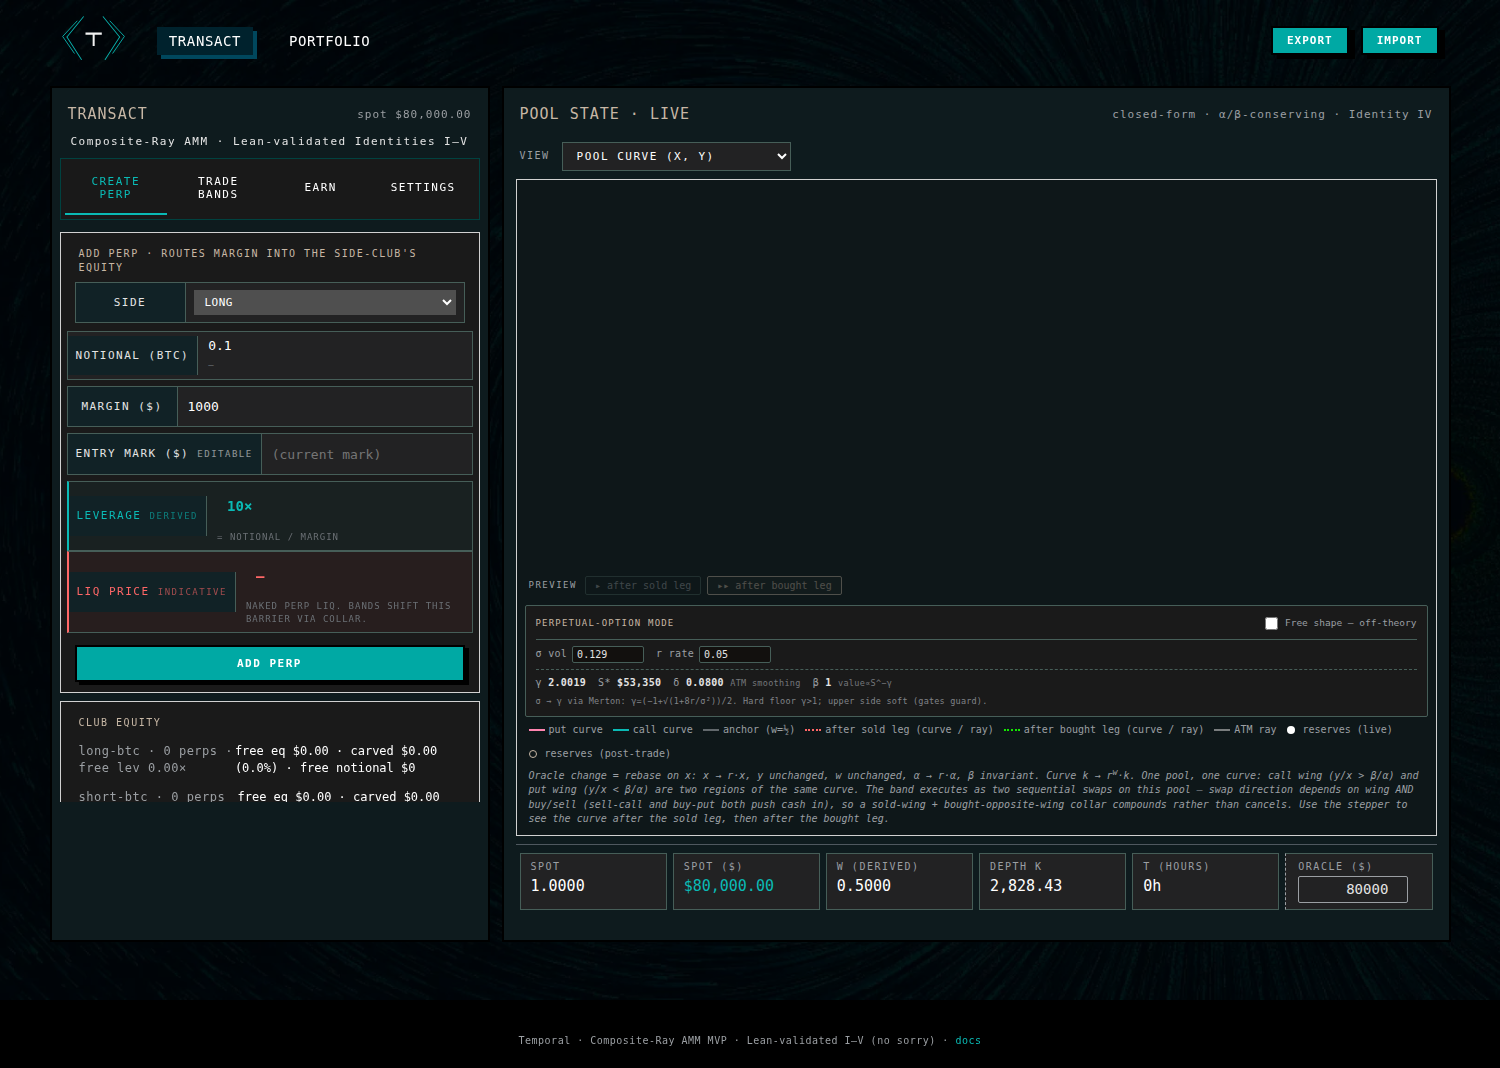
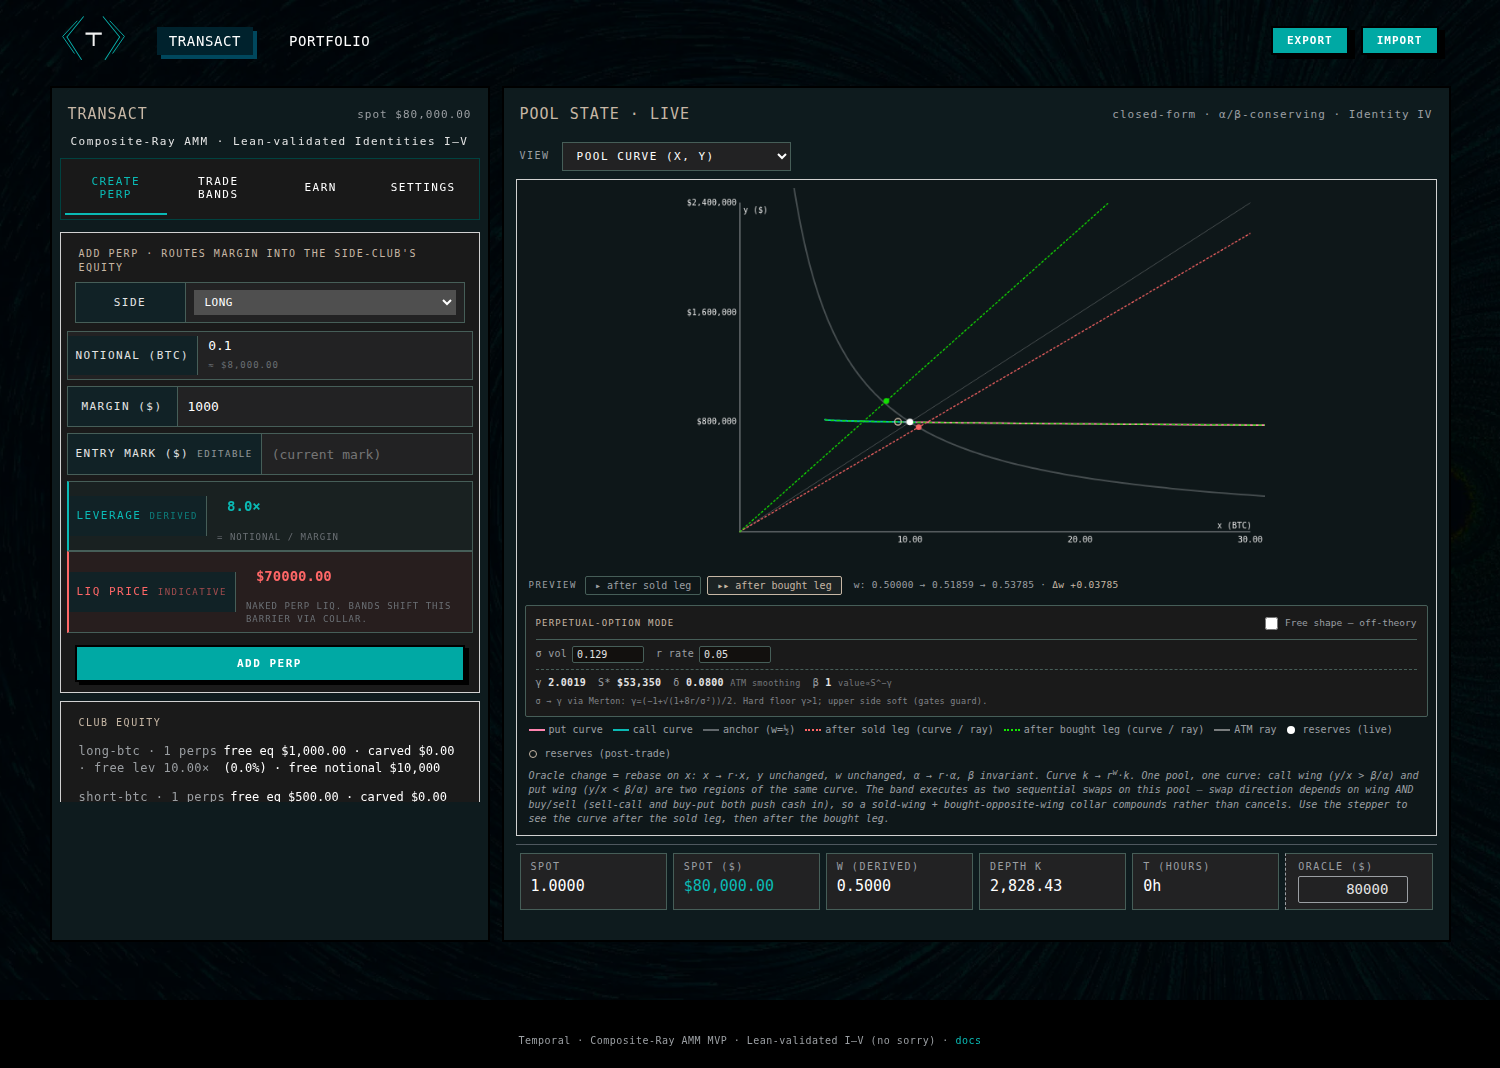
tester: v26d re-verify PASS (FINDING-V26D-1 resolved) — canvases render, σ re-warps, pro-forma/stepper re-trace
Live Chromium ×2 on md5 a406a751: canvas-curve nonblank 11081 (was 0), σ-dial reshapes curve,
pro-forma+stepper re-trace after shape change confirmed, lock/unlock + γ>1 floor PASS, 0 console errors.
New harnesses pw_v26d_fixed.mjs / pw_v26d_item4.mjs + _fixed_* evidence.

https://claude.ai/code/session_01YTdADRco8dsLHffgLPfv9u

diff --git a/.claude/agent-memory/tester/MEMORY.md b/.claude/agent-memory/tester/MEMORY.md
@@ -1,12 +1,72 @@
 # MEMORY — tester
-_Last updated: 2026-06-09, after v26d vol-knob live-browser verification (build 16a872ba). FOUND A FATAL LOAD-ORDER BUG — FLAGGED FAIL to manager._
+_Last updated: 2026-06-09, after v26d vol-knob TDZ-FIX RE-TEST (build a406a751). TDZ FIX CONFIRMED — ALL ITEMS PASS, tester-confirmed clean ×2._
 
-## DONE — 2026-06-09 v26d vol-knob LIVE-BROWSER verify (build 16a872ba33e38843b803d79667b199f5, READ-ONLY)
+## DONE — 2026-06-09 v26d vol-knob TDZ-FIX RE-TEST (build a406a75149b1606d7822b4f2bbcc4f84, READ-ONLY) — FINDING-V26D-1 RESOLVED
+md5 confirmed a406a751 before testing (NEW, post-fix). Fix verified in source: L2960 is now
+`window.addEventListener('DOMContentLoaded', apply)` (was bare `apply()`) — the init draw is deferred
+past `const Viz` (L3444). **RESULT: PASS on every must-pass + regression item. The TDZ blocker is
+gone.** Reproduced byte-identical across 2 runs in all 3 harnesses. Live Chromium.
+
+### Per-item FLAG table (build a406a751)
+1. **No TDZ / no console errors — PASS.** loadErrCount=0, totalErrs=0 at load AND on every sigma
+   change AND view switch (was 9 throws/run before). `page.on('pageerror')` + console-error capture
+   both clean ×2. NOTE: `typeof Viz`/`typeof render` still read "undefined" IN page.evaluate — this
+   is a SCOPE ARTIFACT, not TDZ: Viz is a top-level `const` (L3444) and render a top-level
+   `function` (L4339) in classic `<script id=ui>`, NOT on window, so bare names aren't reachable in
+   evaluate's wrapper (same caveat as the v26c stepper note). Proof they ARE defined+bound: the curve
+   renders, the chart-select listener WORKS (payoff nonblank=111600 on view switch), no pageerror.
+   A TDZ would surface as an uncaught pageerror — there is none.
+2. **Canvases RENDER on load — PASS.** canvas-curve nonblank=11081/322000 (was 0). 4 canvases:
+   curve(700x460), pricing(900x380), payoff(900x420, nonblank=111600), ratio(500x500). Dashboard
+   shot `p1_fixed_A_dashboard_full.png` shows GH hyperbola + labelled axes + white eq-marker on curve
+   + green/red strike rays. Isolated curve crop `p1_fixed_E_canvas_curve_NONBLANK.png` (32612 b, was
+   1486 b uniform-blank) visually confirms GH continuation (not Balancer weight-form, not blank box).
+3. **σ-dial re-warps LIVE curve — PASS.** σ0.129→g2.0019 (def), σ0.30→g1.0001 (floor, flatter
+   curve), σ0.08→g3.4843 (steeper). curveChanged_hi=true, curveChanged_lo=true (pixel sums
+   5561496→5657921→5743750 distinct). γ read-out updates each time. Shots `_F_curve_sigma030`
+   (visibly flatter), `_G_curve_sigma008`.
+4. **★ pro-forma dotted + stepper re-trace after σ — PASS (was INCONCLUSIVE).** Drove the REAL
+   band-builder (Store.addPerp long 100k; band-notional=1, sold-inner 120k/outer 140k, bought-inner
+   68k/outer 50k → previewBand via the bound input listener). `__previewBand` live w/ leg1State,
+   sold/bought thetas 0.3807/1.8829. Stepper: step1 pool x=6.102 (active1) vs step2 pool x=5
+   (active2), distinct pixel sums 5588946 vs 5659008. After σ→0.25 (ghAh 3.0019→2.0001): the
+   pro-forma re-traces (thetas recompute 0.6173/1.3718 on the NEW shape, pixels change), still
+   present, and the stepper STILL toggles distinct shapes. Shots `_K_step1/_L_step2/_M_after_sigma/
+   _N_step1_after_sigma`.
+5. **Curve/portfolio/payoff redraw under open band on σ — PASS.** With band open, σ→0.20: curve
+   redrew (5636992→5710569), payoff redrew (51273249→51283952), portfolio NaN-scan clean
+   (hasNaN=false, hasInfinity=false, poolFinite=true, ghAh 2.158). No stale curve. Shot
+   `_J_band_open_after_sigma`.
+- Regression re-confirm (still PASS): panel renders w/ 5 number steppers (vk-sigma .005/rate .01/
+  gamma-raw .05/delta-raw .01 + unlock checkbox); S* tracks K·γ/(γ+1): out $53,350 ==
+  80000·2.0019/3.0019=53350.21; lock/unlock toggle (Perpetual-option mode ↔ Free shape off-theory,
+  sigma/gamma-raw enable flip); γ>1 floor clamps σ=5→γ1.0001 w/ note, mpFinite, ghAh 2.0001.
+
+VERDICT: **PASS — FINDING-V26D-1 is RESOLVED. v26d a406a751 is visually sound; ship-clear from the
+tester side.** The DOMContentLoaded deferral fixed the load-order TDZ; zero uncaught errors, all
+canvases render and re-warp live, and the pro-forma/stepper item that was inconclusive is now fully
+confirmed against a real band. Browser-confirmed (live Chromium), not fallback.
+
+### Harnesses (engine/verify/, READ-ONLY) — build a406a751
+- `pw_v26d_diag.mjs` (reused, unchanged) — decisive: loadErrCount=0, canvas nonblank=11081, sigma
+  change fires no new error, canvas re-warps.
+- `pw_v26d_fixed.mjs` (NEW) — full per-item: errors/canvases/sigma-rewarp/stepper/band/regression.
+- `pw_v26d_item4.mjs` (NEW) — REAL band-builder pro-forma+stepper re-trace after sigma (item 4).
+- `pw_v26d_shots.mjs` (reused) — regression screenshots; canvasNonblank now 11081 (was 0).
+- Env unchanged: pw 1.56.1 `/opt/node22/lib/node_modules`, ESM `import pkg from`; chrome
+  `/opt/pw-browsers/chromium-1194/chrome-linux/chrome`; `PLAYWRIGHT_BROWSERS_PATH=/opt/pw-browsers`.
+- Evidence `evidence/v26d_volknob_ui/`: p{1,2}_fixed_A..N_*.png (all 420-434 KB, NOT blank),
+  p1_fixed_E_canvas_curve_NONBLANK.png (32612 b). Old p*_E_..._BLANK.png are from the prior FAIL run.
+
+---
+
+## SUPERSEDED — 2026-06-09 v26d vol-knob LIVE-BROWSER verify (build 16a872ba33e38843b803d79667b199f5, READ-ONLY)
+_(This FAIL run is the PRIOR build; FINDING-V26D-1 below is now RESOLVED in a406a751 — see top block.)_
 Live Chromium. Manager had Node-verified (blobs/gates green). My job: live UI behaviour Node can't see.
 **RESULT: FAIL — the build is visually broken. A TDZ load-order bug blanks ALL canvases and never
 defines `Viz`/`render`.** Reproduced clean x2 (byte-identical state both runs).
 
-### FINDING-V26D-1 (FAIL, blocker): vol-knob IIFE runs render() before `const Viz` initialises
+### FINDING-V26D-1 (FAIL, blocker — NOW FIXED): vol-knob IIFE runs render() before `const Viz` initialises
 - The vol-knob control-panel IIFE (`<script id="ui">` L2872-2961) ends with `apply()` (L2960) to
   init read-outs. `apply()` calls `render()` (L2942). `render()` ENDS by calling `previewBand()`/
   `Viz.drawAll` (L4410-4412). But `const Viz` is at **L3444 — LATER in the SAME script block** ->
@@ -22,9 +82,8 @@ defines `Viz`/`render`.** Reproduced clean x2 (byte-identical state both runs).
   (L2922-2941) and the vol-knob's own input/change listeners bind (L2956) BEFORE the `render()` throw.
   So the PANEL works and the POOL re-warps (ghAh changes) — but NOTHING redraws and the rest of the
   UI's wiring is dead. A read-out-only check would falsely look "green."
-- Likely one-line fix (intern, not me): defer the init draw past Viz init — drop the load-time
-  `apply()`'s `render()`, or guard render's draw tail, or move the vol-knob IIFE below `const Viz`,
-  or `setTimeout(apply,0)`. MANAGER decides; I do not edit.
+- FIX APPLIED (intern): L2960 changed to `window.addEventListener('DOMContentLoaded', apply)` so the
+  init draw runs after `const Viz` is initialised. Re-tested PASS (top block, build a406a751).
 
 ### Per-item FLAG table (build 16a872ba)
 1. Panel renders — **PASS.** 5 inputs, all `type=number` steppers (native up/down arrows): vk-unlock
@@ -52,12 +111,8 @@ defines `Viz`/`render`.** Reproduced clean x2 (byte-identical state both runs).
 8. No console errors — **FAIL.** Persistent uncaught `"Cannot access 'Viz' before initialization"`
    (x9/run), at load and every sigma change. Reproduced clean x2 identical.
 
-VERDICT: **FAIL — do NOT ship / do NOT merge v26d as-is.** The vol-knob *logic* (sigma->gamma Merton,
-setShape re-warp, floor clamp, lock/unlock, S*) is correct and tester-confirmed; but a TDZ load-order
-bug (vol-knob IIFE apply()->render()->Viz.drawAll before `const Viz` @L3444) throws uncaught, blanks
-EVERY canvas, and leaves Viz/render undefined + later listeners unbound. Exactly the class Node can't
-see (gates are headless engine logic; G4/Merton/seam pass on the math). Items 1/3/6/7 PASS (panel +
-read-outs); items 2/4/5/8 FAIL on render.
+VERDICT (prior build): FAIL — do NOT ship 16a872ba. Items 1/3/6/7 PASS (panel + read-outs); items
+2/4/5/8 FAILed on render. RESOLVED in a406a751 (see top).
 
 ### Repro / harnesses (engine/verify/, READ-ONLY — no engine edits)
 - `pw_v26d_diag.mjs` — decisive: Viz/render undefined, canvas nonblank=0, error at load+sigma.
@@ -209,8 +264,12 @@ in evaluate — click the buttons instead. See 2026-06-09 run.)
 ## File-safety canon
 Blob line md5s `ab663f5c…` (webp L74) / `c505b08a…` (svg L1060); 3 `<script>` parse.
 HEAD/v26c_full2 build md5 `6cc73563779a3e030774b7597d0ae187`. v26b HEAD `8df9f8a3…`.
+v26d vol-knob build md5 `a406a75149b1606d7822b4f2bbcc4f84` (TDZ-fixed, tester-confirmed).
 
 ## Evidence
+- `evidence/v26d_volknob_ui/` (2026-06-09): p{1,2}_fixed_A..N_*.png (TDZ-fix re-test, all non-blank),
+  p1_fixed_E_canvas_curve_NONBLANK.png; harnesses pw_v26d_fixed.mjs / pw_v26d_item4.mjs /
+  pw_v26d_diag.mjs. Old p*_*_BLANK.png from the prior FAIL run.
 - `evidence/v26c_verify_4items/` (2026-06-09): curve_2rays.png, portfolio_perps_subtab.png,
   pw_verify_4items.mjs, pw_stepper.mjs.
 - `evidence/v26c_pw/`: 01_inputs, 02_after_execute, 05/06_bands_table, 07_polar_mark_pricing,
